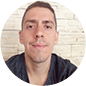
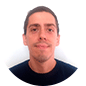
Fotos en Staff, textos reales en quienes somos

diff --git a/secciones/quienessomos.html b/secciones/quienessomos.html
@@ -66,40 +66,67 @@
             <!--INFORMACIÓN INTEGRANTES -->
             <h2>Nuestro staff</h2>
             <div class="row staff__container">
-                <div class="col-lg-6 col-sm-6 col-10 row staff__container__card">
+                <div class="col-lg-4 col-sm-4 col-10 row staff__container__card">
                     <div  class="offset-lg-1 col-lg-3 col-sm-12 staff__imgContainer">
-                        <img src="../imgs/foto-facundo.png" alt="Facundo_Diaz" class="staff__container__img">
+                        <img src="../imgs/foto-facundo.png" alt="Foto_facundo" class="staff__container__img">
                     </div>
-                        <div class="staff__article__text col-lg-8 col-sm-12">
-                        <h4>Facundo Diaz</h4>
-                        <p>Lorem ipsum dolor, sit amet consectetur adipisicing elit. Non recusandae earum, iste deserunt perferendis nostrum ullam at ab harum tempora.</p>
+                    <div class="staff__article__text col-lg-8 col-sm-12">
+                        <h4>Facundo</h4>
+                        <p>Plomero</p>
                     </div>
                 </div>
-                <div class="col-lg-6 col-sm-6 col-10 row staff__container__card">        
+                <div class="col-lg-4 col-sm-4 col-10 row staff__container__card">        
                     <div class="offset-lg-1 col-lg-3 col-sm-12 staff__imgContainer">
-                        <img src="../imgs/foto-rodo.png" alt="Rodolfo_Cejas" class=" staff__container__img">
+                        <img src="../imgs/foto-rodo.png" alt="Foto_Rodolfo" class=" staff__container__img">
                     </div>
                     <div class="staff__article__text col-lg-8 col-sm-12">
-                        <h4>Rodolfo Maximiliano Cejas</h4>
-                        <p>Lorem ipsum dolor sit amet consectetur, adipisicing elit. Labore expedita quibusdam facere adipisci voluptate, aliquid itaque corporis soluta.</p>
+                        <h4>Rodolfo</h4>
+                        <p>Responsable de obra</p>
                     </div>
                 </div>
-                <div class="col-lg-6 col-sm-6 col-10 row staff__container__card">
+                <div class="col-lg-4 col-sm-4 col-10 row staff__container__card">
                     <div  class="offset-lg-1 col-lg-3 col-sm-12 staff__imgContainer">
-                        <img src="../imgs/foto-facundo.png" alt="Facundo_Diaz" class="staff__container__img">
+                        <img src="../imgs/foto-agustin.png" alt="Foto_agustin" class="staff__container__img">
                     </div>
                         <div class="staff__article__text col-lg-8 col-sm-12">
-                        <h4>César Gauto</h4>
-                        <p>Lorem ipsum dolor, sit amet consectetur adipisicing elit. Non recusandae earum, iste deserunt perferendis nostrum ullam at ab harum tempora.</p>
+                        <h4>Agustín</h4>
+                        <p>Electricista</p>
                     </div>
                 </div>
-                <div class="col-lg-6 col-sm-6 col-10 row staff__container__card">        
+                <div class="col-lg-4 col-sm-4 col-10 row staff__container__card">        
                     <div class="offset-lg-1 col-lg-3 col-sm-12 staff__imgContainer ">
-                        <img src="../imgs/foto-rodo.png" alt="Rodolfo_Cejas" class=" staff__container__img">
+                        <img src="../imgs/foto-juan.png" alt="Foto_juan" class=" staff__container__img">
                     </div>
                     <div class="staff__article__text col-lg-8 col-sm-12">
-                        <h4>Daniel Balmaceda Ibarguren</h4>
-                        <p>Lorem ipsum dolor sit amet consectetur, adipisicing elit. Labore expedita quibusdam facere adipisci voluptate, aliquid itaque corporis soluta.</p>
+                        <h4>Juan</h4>
+                        <p>Oficial albañil</p>
+                    </div>
+                </div>
+                <div class="col-lg-4 col-sm-4 col-10 row staff__container__card">        
+                    <div class="offset-lg-1 col-lg-3 col-sm-12 staff__imgContainer ">
+                        <img src="../imgs/foto-andres.png" alt="Foto_andres" class=" staff__container__img">
+                    </div>
+                    <div class="staff__article__text col-lg-8 col-sm-12">
+                        <h4>Andrés</h4>
+                        <p>Oficial albañil</p>
+                    </div>
+                </div>
+                <div class="col-lg-4 col-sm-4 col-10 row staff__container__card">        
+                    <div class="offset-lg-1 col-lg-3 col-sm-12 staff__imgContainer ">
+                        <img src="../imgs/foto-chulo.png" alt="Foto_claudio" class=" staff__container__img">
+                    </div>
+                    <div class="staff__article__text col-lg-8 col-sm-12">
+                        <h4>Claudio</h4>
+                        <p>Suboficial albañil</p>
+                    </div>
+                </div>
+                <div class="col-lg-4 col-sm-4 col-10 row staff__container__card">        
+                    <div class="offset-lg-1 col-lg-3 col-sm-12 staff__imgContainer ">
+                        <img src="../imgs/foto-leonardo.png" alt="Foto_leonardo" class=" staff__container__img">
+                    </div>
+                    <div class="staff__article__text col-lg-8 col-sm-12">
+                        <h4>Leonardo</h4>
+                        <p>Pintor</p>
                     </div>
                 </div>
             </div>
